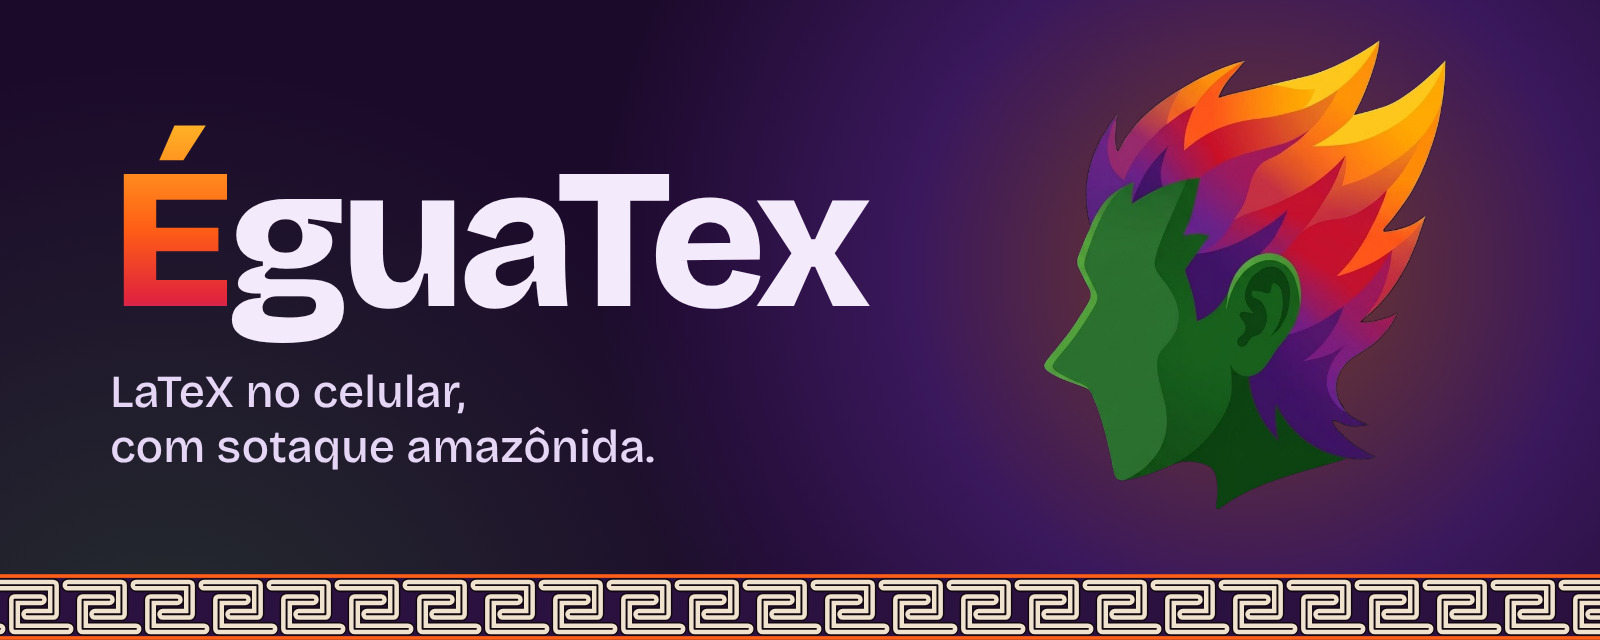
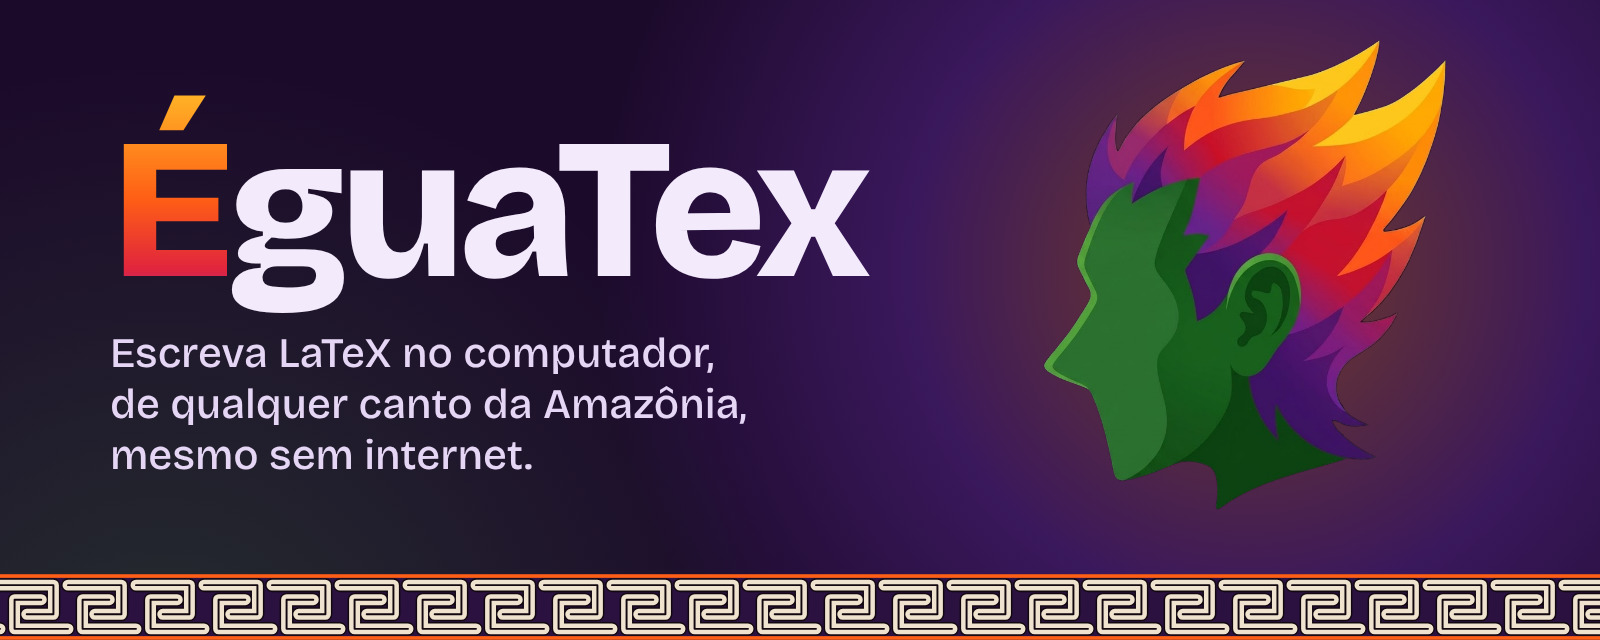
Usa na capa do README a mesma frase de apresentação do site
Atualiza a frase para a versão do site (computador, mesmo sem internet)
e corrige o caminho da imagem da capa, que apontava para banner.png.

Changed region(s): [[0.0625, 0.125, 0.5625, 0.75]]

diff --git a/README.md b/README.md
@@ -1,6 +1,6 @@
 <p align="center">
   <a href="https://jessicamelo0532.github.io/egua-tex/">
-    <img src="assets/img/banner.png" alt="ÉguaTex: editor LaTeX para Windows, com sotaque amazônida. Ao lado, a logo do curupira de pele verde e cabelo em chamas." width="100%">
+    <img src="assets/img/banner.jpg" alt="ÉguaTex: Escreva LaTeX no computador, de qualquer canto da Amazônia, mesmo sem internet. Ao lado, a logo do curupira de pele verde e cabelo em chamas." width="100%">
   </a>
 </p>
 
